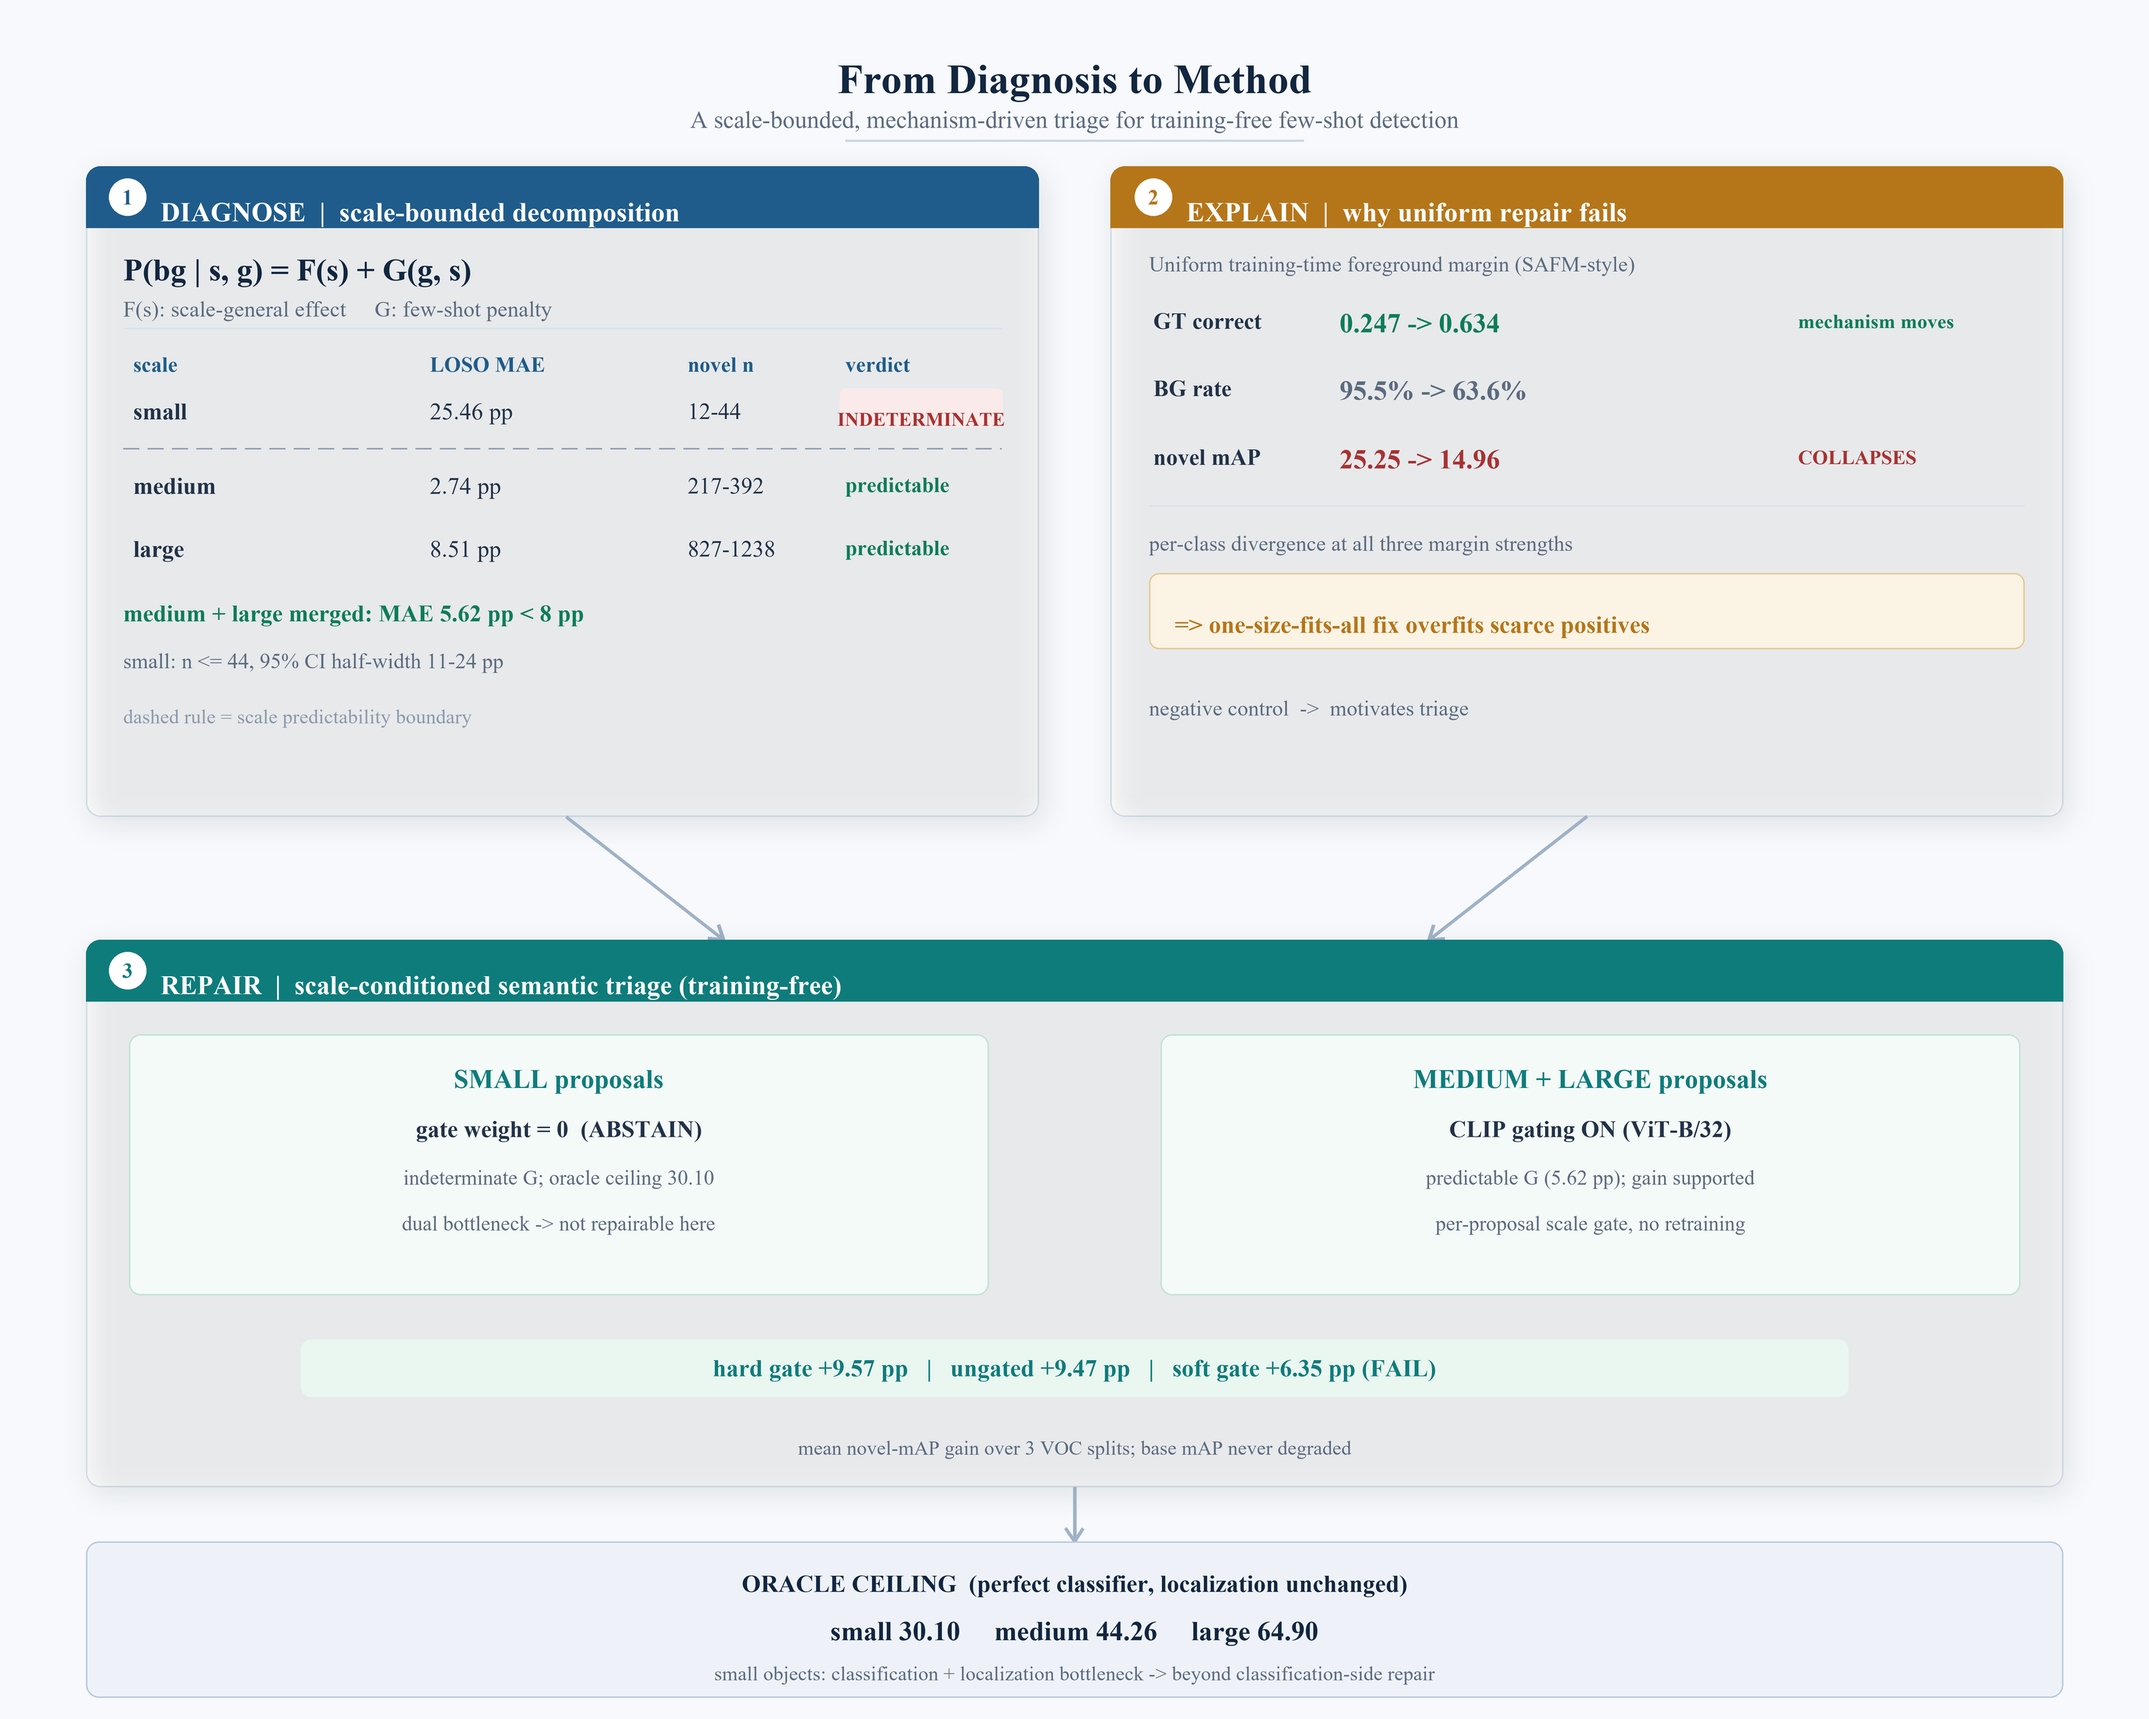
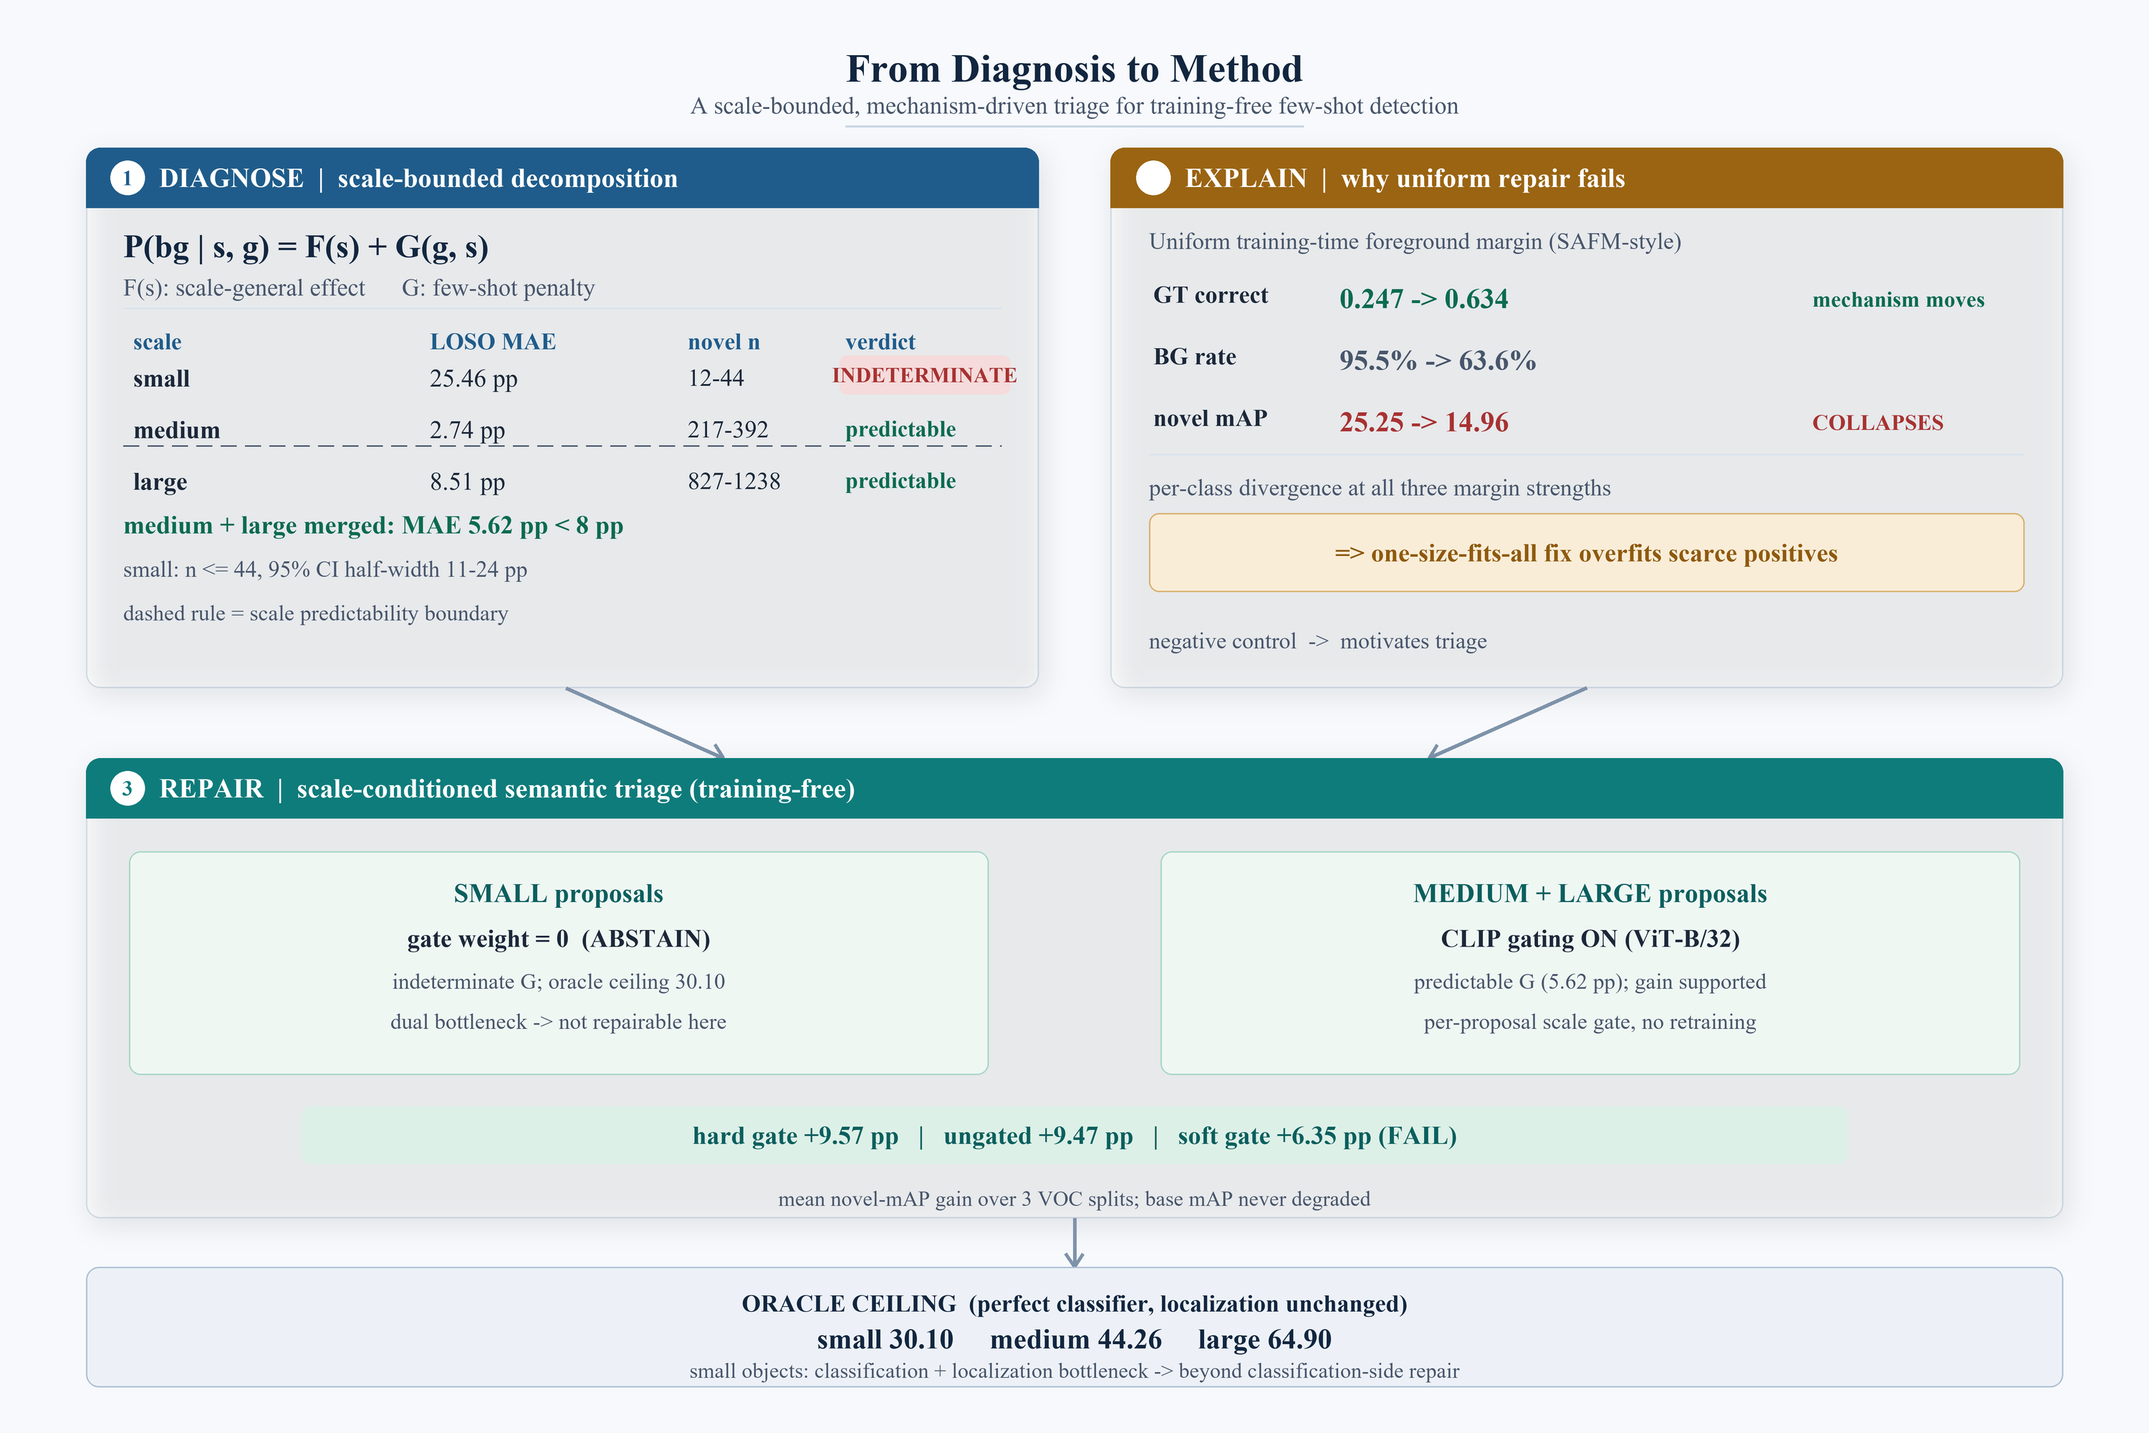
Figure 1 v3: larger fonts, tighter layout, higher contrast per review

diff --git a/scripts/draw_figure1.py b/scripts/draw_figure1.py
@@ -1,13 +1,13 @@
 # -*- coding: utf-8 -*-
-"""Paper 4 Figure 1 (v2, premium journal style): mechanism-to-method pipeline.
-Refined palette, generous whitespace, numbered stage badges, icon-like markers,
-subtle card shadows and a clean visual hierarchy. Pillow only (no matplotlib).
-All numbers come verbatim from 成稿事实清单 / EN master v0.2.
+"""Paper 4 Figure 1 (v3): compact, high-contrast journal style.
+Fixes over v2 per user review: larger minimum font sizes, tighter vertical
+rhythm, darker secondary text (no faint grays), stronger accent colors.
+Pillow only. All numbers verbatim from 成稿事实清单.
 """
 from PIL import Image, ImageDraw, ImageFont, ImageFilter
 
 S = 2                                  # supersample
-LW, LH = 3000, 2400                    # logical canvas
+LW, LH = 3000, 2000                    # logical canvas (was 2400 -> tighter)
 W, H = LW * S, LH * S
 FR, FB = "C:/Windows/Fonts/times.ttf", "C:/Windows/Fonts/timesbd.ttf"
 
@@ -17,16 +17,17 @@ def f(sz, bold=False):
 img = Image.new("RGBA", (W, H), "#F7F9FCFF")
 d = ImageDraw.Draw(img)
 
-# premium palette
-NAVY   = "#12263F"   # deep navy (headings)
-BLUE   = "#1F5C8B"   # steel blue (stage 1)
-TEAL   = "#0E7C7B"   # teal (stage 3)
-AMBER  = "#B5761A"   # amber (stage 2 / warning)
-RED    = "#A83232"   # muted red (collapse)
-GREEN  = "#0E7C5A"   # green (pass)
-INK    = "#223247"   # body ink
-MUTED  = "#5C6B7F"   # secondary
-FAINT  = "#8C9AAB"   # tertiary
+# palette (v3: darker secondaries, stronger accents)
+NAVY   = "#12263F"
+BLUE   = "#1F5C8B"
+TEAL   = "#0E7C7B"
+TEALD  = "#0B5F5E"   # dark teal for body text
+AMBER  = "#9A6412"   # darker amber (was B5761A)
+AMBERD = "#8F5A0E"
+RED    = "#A83232"
+GREEN  = "#0B6B4F"   # darker green (was 0E7C5A)
+INK    = "#1B2839"   # darker body ink
+MUTED  = "#48566B"   # darker secondary (was 5C6B7F)
 CARD1  = "#FFFFFF"
 LINE1  = "#D8E2EC"
 
@@ -46,132 +47,125 @@ def shadow(box, radius=20, blur=18, alpha=26):
 def tx(xy, s, font, fill, anchor="la"):
     d.text((int(xy[0]*S), int(xy[1]*S)), s, font=font, fill=fill, anchor=anchor)
 
-def badge(cx, cy, n, color):
-    r = 26
-    d.ellipse(((cx-r)*S,(cy-r)*S,(cx+r)*S,(cy+r)*S), fill=color)
-    d.text((cx*S, cy*S), str(n), font=f(30,True), fill="#FFFFFF", anchor="mm")
-
 def rule(x1,y1,x2,y2,color=LINE1,w=2):
     d.line([(x1*S,y1*S),(x2*S,y2*S)], fill=color, width=w*S)
 
-def dash(x1,x2,y,color=FAINT):
+def dash(x1,x2,y,color=MUTED):
     x=x1
     while x<x2:
         d.line([(x*S,y*S),(min(x+22,x2)*S,y*S)], fill=color, width=2*S); x+=34
 
 import math
-def arrow(p1,p2,color=MUTED,width=5,head=22):
+def arrow(p1,p2,color="#7E93AA",width=5,head=22):
     d.line([(p1[0]*S,p1[1]*S),(p2[0]*S,p2[1]*S)], fill=color, width=width*S)
     a=math.atan2(p2[1]-p1[1],p2[0]-p1[0])
     for off in (2.55,-2.55):
         q=(p2[0]+head*math.cos(a+off), p2[1]+head*math.sin(a+off))
         d.line([(p2[0]*S,p2[1]*S),(q[0]*S,q[1]*S)], fill=color, width=width*S)
 
-# ============ HEADER ============
-tx((LW//2, 78), "From Diagnosis to Method", f(58,True), NAVY, anchor="ma")
-tx((LW//2, 148), "A scale-bounded, mechanism-driven triage for training-free few-shot detection",
+# ============ HEADER (compact) ============
+tx((LW//2, 64), "From Diagnosis to Method", f(56,True), NAVY, anchor="ma")
+tx((LW//2, 128), "A scale-bounded, mechanism-driven triage for training-free few-shot detection",
    f(34), MUTED, anchor="ma")
-rule(1180,196,1820,196,color="#C9D6E4",w=3)
+rule(1180,176,1820,176,color="#C9D6E4",w=3)
 
-# ============ STAGE 1 : DIAGNOSE ============
-rr((120,232,1450,1140), CARD1, LINE1, width=2); shadow((120,232,1450,1140))
-rr((120,232,1450,318), BLUE, None, radius=20)   # top band
-# square off band bottom
-d.rectangle((120*S,285*S,1450*S,318*S), fill=BLUE)
-badge(178,275,"1","#FFFFFF")
-# badge number color override -> navy text on white circle looks better; redraw
-d.ellipse(((178-26)*S,(275-26)*S,(178+26)*S,(275+26)*S), fill="#FFFFFF")
-d.text((178*S,275*S),"1",font=f(30,True),fill=BLUE,anchor="mm")
-tx((224,275),"DIAGNOSE  |  scale-bounded decomposition", f(38,True), "#FFFFFF")
+# ============ STAGE 1 : DIAGNOSE (120,206 - 1450,960) ============
+P1=(120,206,1450,960)
+rr(P1, CARD1, LINE1, width=2); shadow(P1)
+rr((120,206,1450,290), BLUE, None, radius=20)
+d.rectangle((120*S,258*S,1450*S,290*S), fill=BLUE)
+d.ellipse(((178-24)*S,(248-24)*S,(178+24)*S,(248+24)*S), fill="#FFFFFF")
+d.text((178*S,248*S),"1",font=f(30,True),fill=BLUE,anchor="mm")
+tx((222,248),"DIAGNOSE  |  scale-bounded decomposition", f(38,True), "#FFFFFF", anchor="lm")
 
-tx((172,352),"P(bg | s, g) = F(s) + G(g, s)", f(44,True), NAVY)
-tx((172,414),"F(s): scale-general effect     G: few-shot penalty", f(31), MUTED)
-rule(172,458,1398,458,LINE1)
+tx((172,318),"P(bg | s, g) = F(s) + G(g, s)", f(46,True), NAVY)
+tx((172,382),"F(s): scale-general effect      G: few-shot penalty", f(34), MUTED)
+rule(172,430,1398,430,LINE1)
 
-tx((186,492),"scale", f(30,True), BLUE)
-tx((600,492),"LOSO MAE", f(30,True), BLUE)
-tx((960,492),"novel n", f(30,True), BLUE)
-tx((1180,492),"verdict", f(30,True), BLUE)
+tx((186,458),"scale", f(33,True), BLUE)
+tx((600,458),"LOSO MAE", f(33,True), BLUE)
+tx((960,458),"novel n", f(33,True), BLUE)
+tx((1180,458),"verdict", f(33,True), BLUE)
 rows=[("small","25.46 pp","12-44","INDETERMINATE",RED),
       ("medium","2.74 pp","217-392","predictable",GREEN),
       ("large","8.51 pp","827-1238","predictable",GREEN)]
-ys=[556,660,748]
+ys=[508,580,652]
 for (a,b,c,e,col),y in zip(rows,ys):
-    tx((186,y),a,f(33,True),INK); tx((600,y),b,f(33),INK)
-    tx((960,y),c,f(32),INK)
+    tx((186,y),a,f(35,True),INK); tx((600,y),b,f(35),INK)
+    tx((960,y),c,f(34),INK)
     if e=="INDETERMINATE":
-        rr((1172,y-14,1400,y+40),"#FBEAEA",None,radius=10)   # chip BEFORE text
-        tx((1286,y+14),e,f(27,True),col,anchor="ma")          # centered in chip
+        rr((1172,y-12,1410,y+42),"#F5DBDB",None,radius=10)
+        tx((1291,y+15),e,f(30,True),col,anchor="mm")
     else:
-        tx((1180,y),e,f(30,True),col)
-dash(172,1398,626)
-tx((172,838),"medium + large merged: MAE 5.62 pp < 8 pp", f(33,True), GREEN)
-tx((172,906),"small: n <= 44, 95% CI half-width 11-24 pp", f(30), MUTED)
-tx((172,985),"dashed rule = scale predictability boundary", f(28), FAINT)
+        tx((1180,y),e,f(32,True),col)
+dash(172,1398,622)
+tx((172,712),"medium + large merged: MAE 5.62 pp < 8 pp", f(36,True), GREEN)
+tx((172,776),"small: n <= 44, 95% CI half-width 11-24 pp", f(32), MUTED)
+tx((172,838),"dashed rule = scale predictability boundary", f(31), MUTED)
 
-# ============ STAGE 2 : COLLAPSE ============
-rr((1550,232,2880,1140), CARD1, LINE1, width=2); shadow((1550,232,2880,1140))
-rr((1550,232,2880,318), AMBER, None, radius=20)
-d.rectangle((1550*S,285*S,2880*S,318*S), fill=AMBER)
-d.ellipse(((1610-26)*S,(275-26)*S,(1610+26)*S,(275+26)*S), fill="#FFFFFF")
-d.text((1610*S,275*S),"2",font=f(30,True),fill=AMBER,anchor="mm")
-tx((1656,275),"EXPLAIN  |  why uniform repair fails", f(38,True), "#FFFFFF")
+# ============ STAGE 2 : COLLAPSE (1550,206 - 2880,960) ============
+P2=(1550,206,2880,960)
+rr(P2, CARD1, LINE1, width=2); shadow(P2)
+rr((1550,206,2880,290), AMBER, None, radius=20)
+d.rectangle((1550*S,258*S,2880*S,290*S), fill=AMBER)
+d.ellipse(((1610-24)*S,(248-24)*S,(1610+24)*S,(248+24)*S), fill="#FFFFFF")
+d.text((1610*S,248*S),"2",font=f(30,True),fill="#FFFFFF",anchor="mm")
+tx((1654,248),"EXPLAIN  |  why uniform repair fails", f(38,True), "#FFFFFF", anchor="lm")
 
-tx((1604,352),"Uniform training-time foreground margin (SAFM-style)", f(30), MUTED)
+tx((1604,318),"Uniform training-time foreground margin (SAFM-style)", f(33), MUTED)
 cmps=[("GT correct","0.247 -> 0.634","mechanism moves",GREEN),
       ("BG rate","95.5% -> 63.6%","",MUTED),
       ("novel mAP","25.25 -> 14.96","COLLAPSES",RED)]
-cy=[430,524,620]
+cy=[392,478,564]
 for (name,val,note,col),y in zip(cmps,cy):
-    tx((1610,y),name,f(32,True),INK)
-    tx((1870,y),val,f(38,True),col)
-    if note: tx((2510,y+3),note,f(28,True),col)
-rule(1604,706,2826,706,LINE1)
-tx((1604,742),"per-class divergence at all three margin strengths", f(30), MUTED)
-# warning callout
-rr((1604,800,2826,906),"#FBF3E4","#E7C98F",width=2,radius=14)
-tx((1640,853),"=> one-size-fits-all fix overfits scarce positives", f(34,True), AMBER)
-tx((1604,972),"negative control  ->  motivates triage", f(30), MUTED)
+    tx((1610,y),name,f(34,True),INK)
+    tx((1870,y+2),val,f(40,True),col)
+    if note: tx((2530,y+8),note,f(31,True),col)
+rule(1604,634,2826,634,LINE1)
+tx((1604,662),"per-class divergence at all three margin strengths", f(33), MUTED)
+rr((1604,716,2826,826),"#F9EDD8","#D9B271",width=2,radius=14)
+tx((2215,771),"=> one-size-fits-all fix overfits scarce positives", f(36,True), AMBERD, anchor="mm")
+tx((1604,876),"negative control  ->  motivates triage", f(32), MUTED)
 
-# ============ arrows ============
-arrow((790,1140),(1010,1312),color="#9FB2C6")
-arrow((2215,1140),(1995,1312),color="#9FB2C6")
+# ============ arrows (short) ============
+arrow((790,960),(1010,1058))
+arrow((2215,960),(1995,1058))
 
-# ============ STAGE 3 : TRIAGE ============
-rr((120,1312,2880,2076), CARD1, LINE1, width=2); shadow((120,1312,2880,2076))
-rr((120,1312,2880,1398), TEAL, None, radius=20)
-d.rectangle((120*S,1365*S,2880*S,1398*S), fill=TEAL)
-d.ellipse(((178-26)*S,(1355-26)*S,(178+26)*S,(1355+26)*S), fill="#FFFFFF")
-d.text((178*S,1355*S),"3",font=f(30,True),fill=TEAL,anchor="mm")
-tx((224,1355),"REPAIR  |  scale-conditioned semantic triage (training-free)", f(37,True), "#FFFFFF")
+# ============ STAGE 3 : TRIAGE (120,1058 - 2880,1700) ============
+P3=(120,1058,2880,1700)
+rr(P3, CARD1, LINE1, width=2); shadow(P3)
+rr((120,1058,2880,1142), TEAL, None, radius=20)
+d.rectangle((120*S,1110*S,2880*S,1142*S), fill=TEAL)
+d.ellipse(((178-24)*S,(1100-24)*S,(178+24)*S,(1100+24)*S), fill="#FFFFFF")
+d.text((178*S,1100*S),"3",font=f(30,True),fill=TEAL,anchor="mm")
+tx((222,1100),"REPAIR  |  scale-conditioned semantic triage (training-free)", f(38,True), "#FFFFFF", anchor="lm")
 
-# two sub-cards
-rr((180,1444,1380,1808),"#F4FAF7","#BFE3D5",width=2,radius=16)
-tx((780,1486),"SMALL proposals", f(37,True), TEAL, anchor="ma")
-tx((780,1558),"gate weight = 0  (ABSTAIN)", f(33,True), INK, anchor="ma")
-tx((780,1628),"indeterminate G; oracle ceiling 30.10", f(29), MUTED, anchor="ma")
-tx((780,1692),"dual bottleneck -> not repairable here", f(29), MUTED, anchor="ma")
+rr((180,1188,1380,1500),"#EFF7F3","#A8D8C6",width=2,radius=16)
+tx((780,1226),"SMALL proposals", f(37,True), TEALD, anchor="ma")
+tx((780,1290),"gate weight = 0  (ABSTAIN)", f(35,True), INK, anchor="ma")
+tx((780,1352),"indeterminate G; oracle ceiling 30.10", f(31), MUTED, anchor="ma")
+tx((780,1408),"dual bottleneck -> not repairable here", f(31), MUTED, anchor="ma")
 
-rr((1620,1444,2820,1808),"#F4FAF7","#BFE3D5",width=2,radius=16)
-tx((2220,1486),"MEDIUM + LARGE proposals", f(37,True), TEAL, anchor="ma")
-tx((2220,1558),"CLIP gating ON (ViT-B/32)", f(33,True), INK, anchor="ma")
-tx((2220,1628),"predictable G (5.62 pp); gain supported", f(29), MUTED, anchor="ma")
-tx((2220,1692),"per-proposal scale gate, no retraining", f(29), MUTED, anchor="ma")
+rr((1620,1188,2820,1500),"#EFF7F3","#A8D8C6",width=2,radius=16)
+tx((2220,1226),"MEDIUM + LARGE proposals", f(37,True), TEALD, anchor="ma")
+tx((2220,1290),"CLIP gating ON (ViT-B/32)", f(35,True), INK, anchor="ma")
+tx((2220,1352),"predictable G (5.62 pp); gain supported", f(31), MUTED, anchor="ma")
+tx((2220,1408),"per-proposal scale gate, no retraining", f(31), MUTED, anchor="ma")
 
-rr((420,1870,2580,1950),"#EAF6F0",None,radius=14)
-tx((1500,1910),"hard gate +9.57 pp   |   ungated +9.47 pp   |   soft gate +6.35 pp (FAIL)",
-   f(34,True), TEAL, anchor="mm")
-tx((1500,2006),"mean novel-mAP gain over 3 VOC splits; base mAP never degraded", f(28), MUTED, anchor="ma")
+rr((420,1544,2580,1624),"#DDF0E7",None,radius=14)
+tx((1500,1584),"hard gate +9.57 pp   |   ungated +9.47 pp   |   soft gate +6.35 pp (FAIL)",
+   f(36,True), TEALD, anchor="mm")
+tx((1500,1656),"mean novel-mAP gain over 3 VOC splits; base mAP never degraded", f(30), MUTED, anchor="ma")
 
-# ============ ORACLE BAR ============
-arrow((1500,2076),(1500,2152),color="#9FB2C6")
-rr((120,2152,2880,2370),"#EEF2F8","#B9C8DC",width=2,radius=18)
-tx((1500,2192),"ORACLE CEILING  (perfect classifier, localization unchanged)", f(34,True), NAVY, anchor="ma")
-tx((1500,2256),"small 30.10     medium 44.26     large 64.90", f(38,True), NAVY, anchor="ma")
-tx((1500,2321),"small objects: classification + localization bottleneck -> beyond classification-side repair",
-   f(28), MUTED, anchor="ma")
+# ============ ORACLE BAR (120,1740 - 2880,1936) ============
+arrow((1500,1700),(1500,1768))
+rr((120,1768,2880,1936),"#EDF1F7","#AFC1D6",width=2,radius=18)
+tx((1500,1800),"ORACLE CEILING  (perfect classifier, localization unchanged)", f(34,True), NAVY, anchor="ma")
+tx((1500,1846),"small 30.10     medium 44.26     large 64.90", f(40,True), NAVY, anchor="ma")
+tx((1500,1896),"small objects: classification + localization bottleneck -> beyond classification-side repair",
+   f(30), MUTED, anchor="ma")
 
 out=img.resize((LW,LH), Image.LANCZOS).convert("RGB")
 OUT="E:/WorkBuddy/spaces/2026_11_18_08-47-15/论文4_Figure1_mechanism.png"
 out.save(OUT,dpi=(300,300))
-print("saved v2:",OUT,"size:",out.size)
+print("saved v3:",OUT,"size:",out.size)
